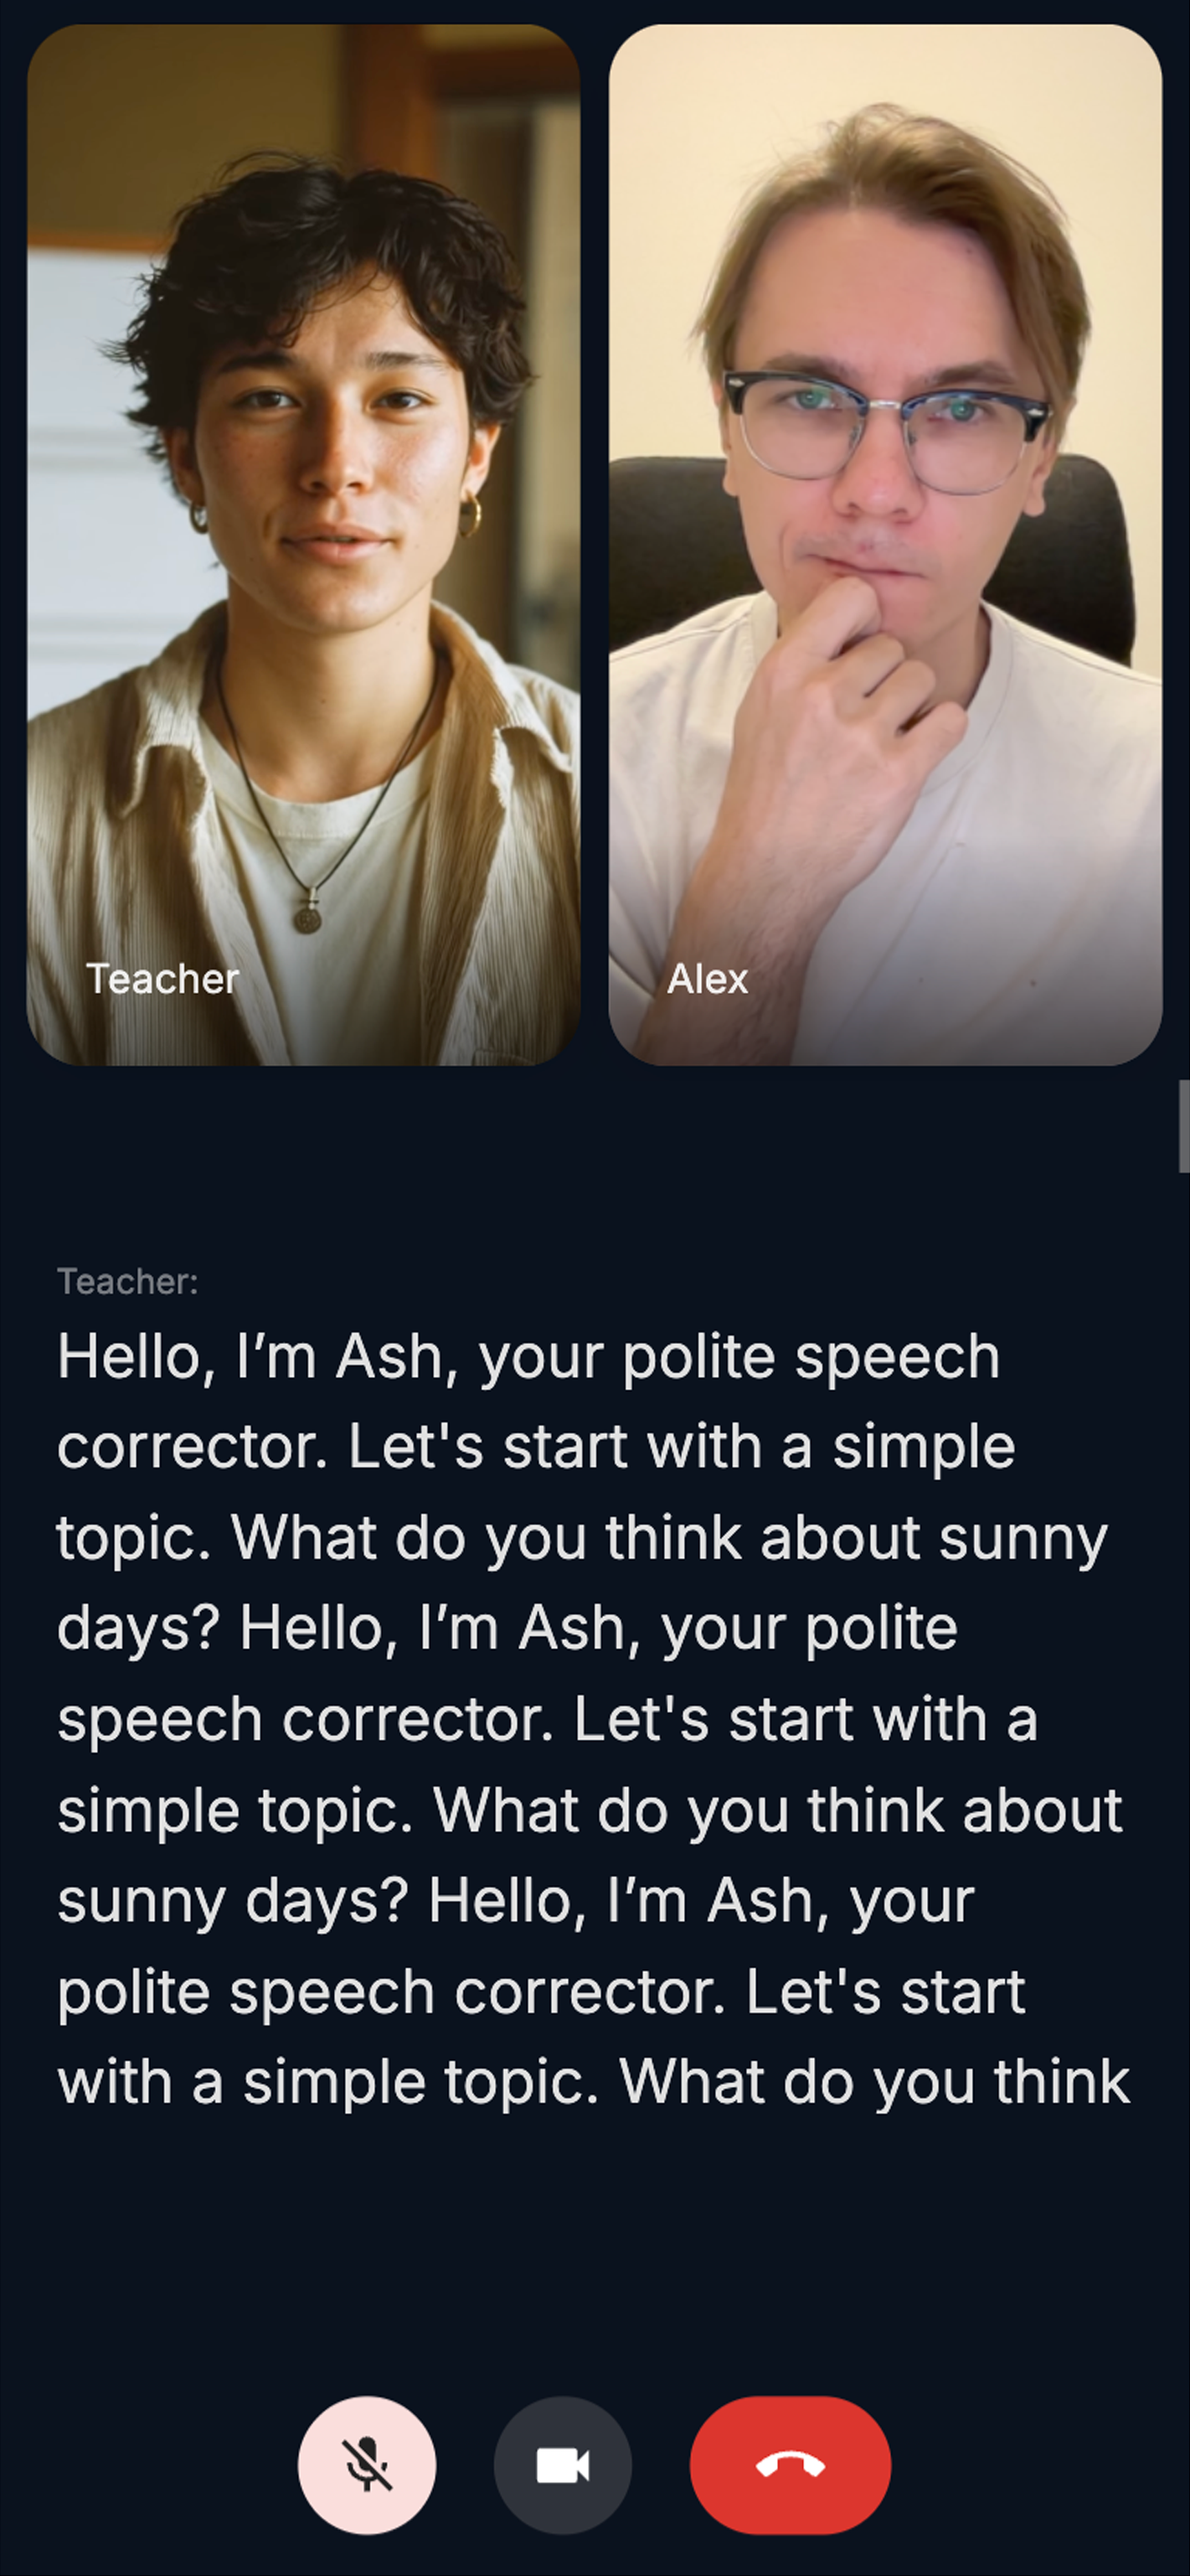
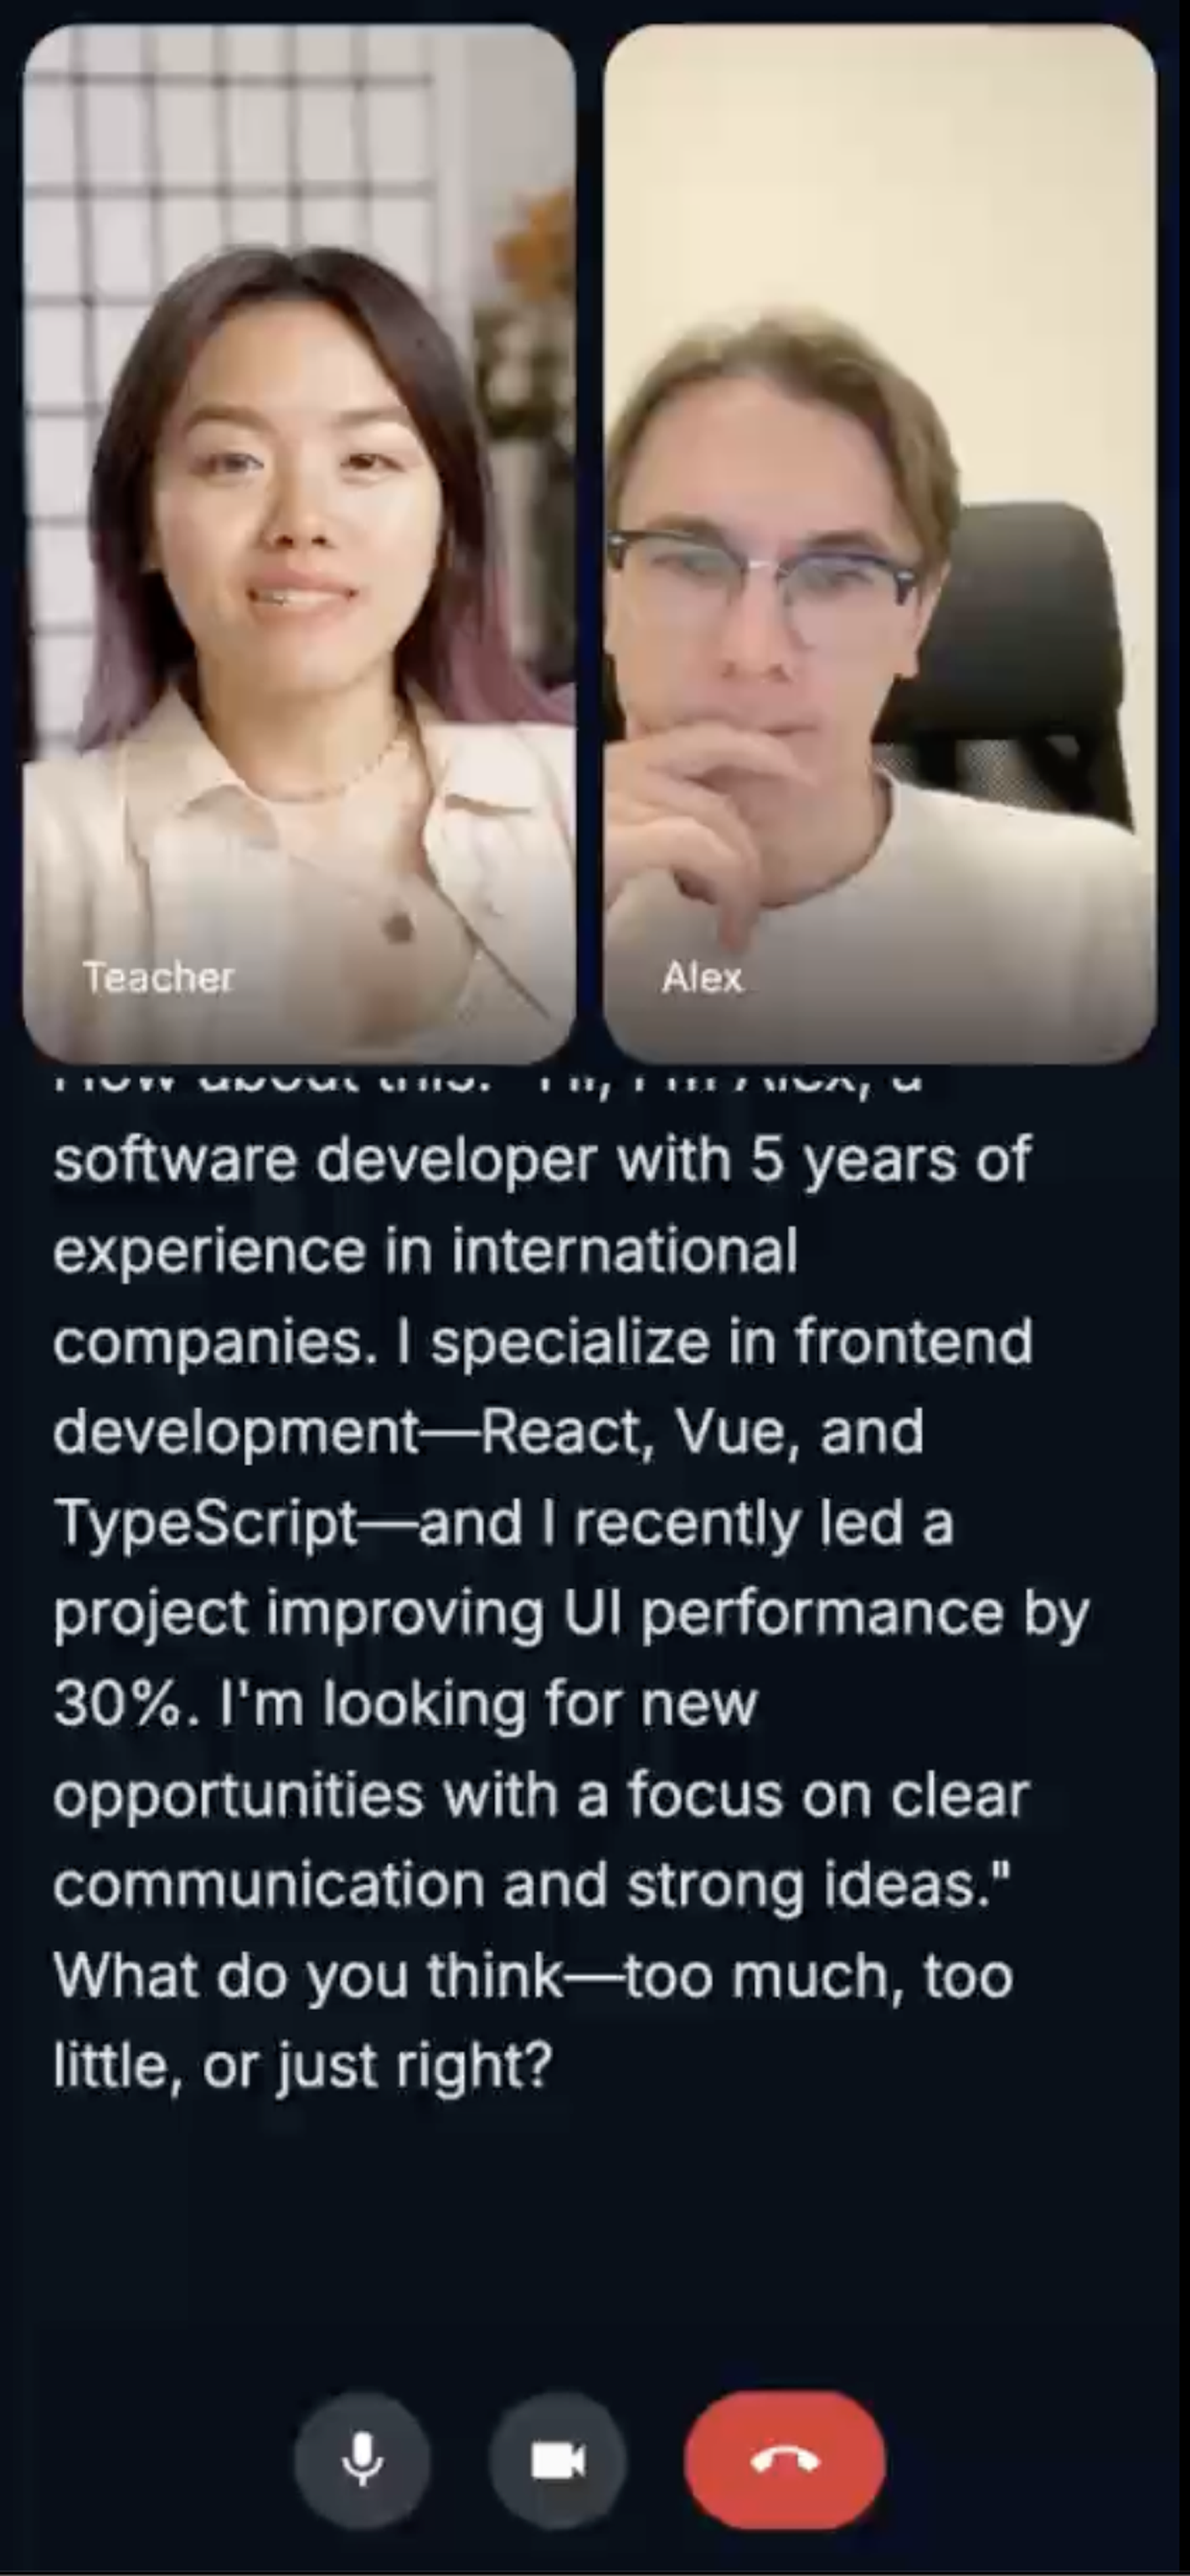
ref

diff --git a/src/features/Landing/WelcomeScreen2.tsx b/src/features/Landing/WelcomeScreen2.tsx
@@ -220,23 +220,42 @@ export const WelcomeScreen2: React.FC<WelcomeScreenProps> = ({
                     transition: "transform 0.3s ease-in-out",
                   }}
                 >
-                  {card.imageUrl && (
+                  {card.imageUrl && !card.videoUrl && (
                     <Stack component={"img"} alt={card.alt} src={card.imageUrl} sx={contentStyle} />
                   )}
                   {card.videoUrl && (
-                    <Stack
-                      component={"video"}
-                      autoPlay
-                      loop
-                      playsInline
-                      controls={false}
-                      muted
-                      sx={{
-                        ...contentStyle,
-                        aspectRatio: "411 / 896",
-                      }}
-                      src={card.videoUrl}
-                    />
+                    <>
+                      {card.imageUrl && (
+                        <Stack
+                          component={"img"}
+                          alt={card.alt}
+                          src={card.imageUrl}
+                          sx={{
+                            ...contentStyle,
+                            boxShadow: "none",
+                            width: "100%",
+                            position: "absolute",
+                            top: 0,
+                            left: 0,
+                            zIndex: 1,
+                            //filter: "blur(3px)",
+                          }}
+                        />
+                      )}
+                      <Stack
+                        component={"video"}
+                        autoPlay
+                        loop
+                        playsInline
+                        controls={false}
+                        muted
+                        sx={{
+                          ...contentStyle,
+                          aspectRatio: "411 / 896",
+                        }}
+                        src={card.videoUrl}
+                      />
+                    </>
                   )}
                   <Stack
                     sx={{

diff --git a/src/features/Landing/LandingPage.tsx b/src/features/Landing/LandingPage.tsx
@@ -116,10 +116,12 @@ export default function LandingPage({ lang }: LandingPageProps) {
             cards={[
               {
                 videoUrl: "/landing/preview/grammar.mp4",
+                imageUrl: "/landing/preview/grammar.webp",
                 alt: i18n._("Grammar Correction Preview"),
               },
               {
                 videoUrl: "/landing/preview/camera.mp4",
+                imageUrl: "/landing/preview/camera.jpg",
                 alt: i18n._("Webcam Feedback Preview"),
               },
               {
